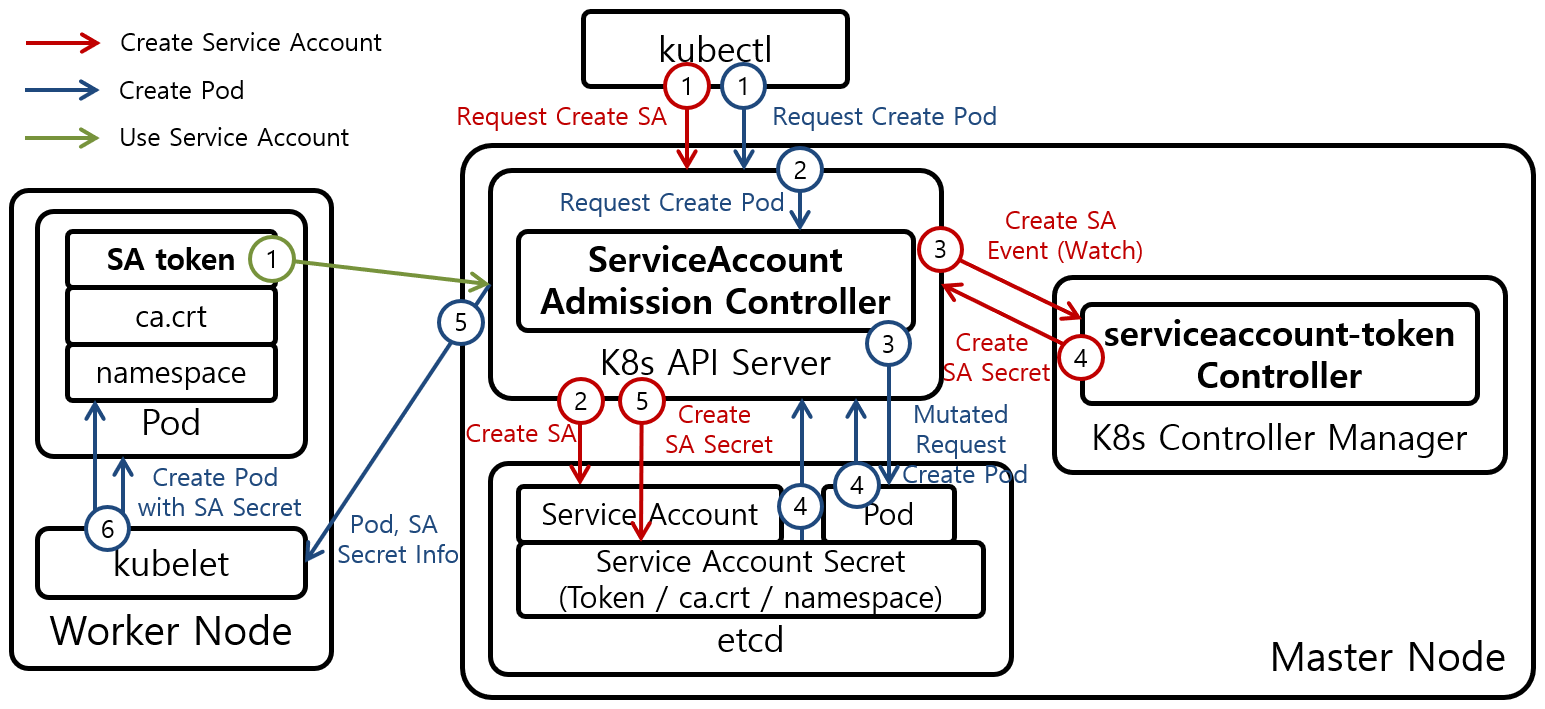
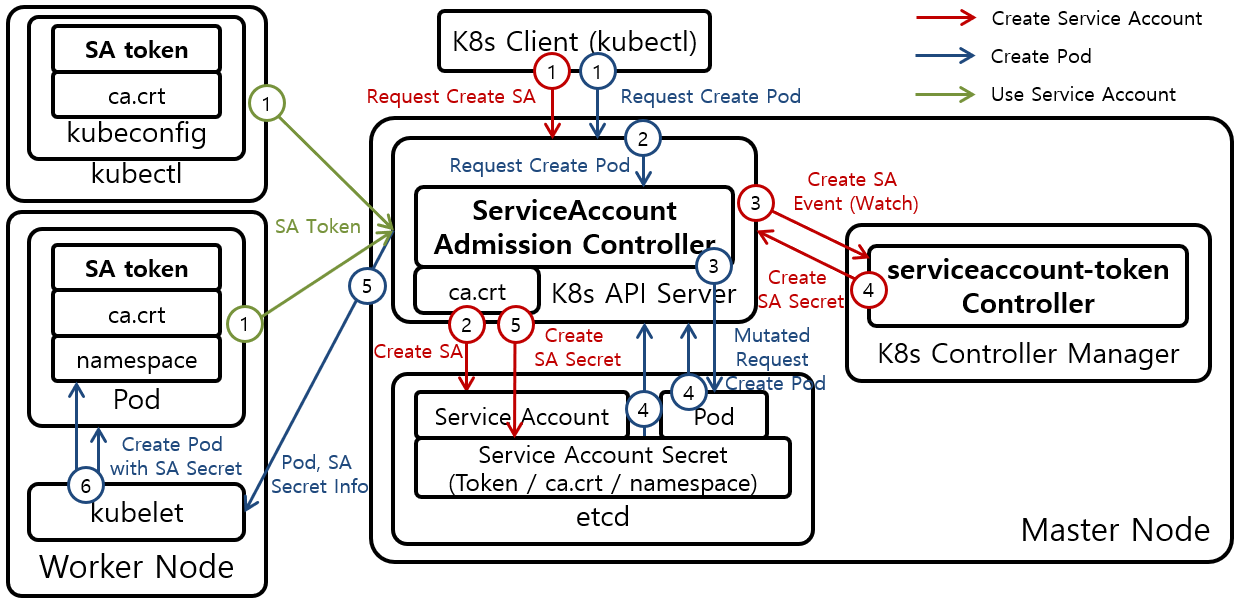
Update

diff --git a/_docs/theory_analysis/Kubernetes_Authentication_Service_Account.md b/_docs/theory_analysis/Kubernetes_Authentication_Service_Account.md
@@ -121,7 +121,8 @@ spec:
 ServiceAccount Admission Controller는 Pod 생성 요청에 포함된 Pod의 Spec을 보고 Spec에 Service Account가 명시되어 있지 않는다면 "default" Service Account를 이용하도록 Pod의 Spec을 변경한다. 또한 Service Account에 포함된 token, ca.crt, namespace를 Pod 내부에서 접근 가능하도록 Volume으로 Mount 하도록 Pod의 Spec을 변경한다. [Text 2]는 ServiceAccount Admission Controller가 변경하는 Pod의 Spec을 나타내고 있다.
 
 {% highlight console %}
-
+# ls /var/run/secrets/kubernetes.io/serviceaccount
+ca.crt  namespace  token
 {% endhighlight %}
 <figure>
 <figcaption class="caption">[Console 3] Kubernetes Pod 내부에서 token, ca.crt, namespace 확인</figcaption>
@@ -131,20 +132,55 @@ Volume이 기본적으로 Mount되는 경로는 "/var/run/secrets/kubernetes.io/
 
 #### 1.4. Use Service Account
 
-API Server : --service-account-key-file=/etc/kubernetes/pki/sa.pub
+Service Account의 Token을 알고 있는 Kubernetes Client (kubectl)은 Service Account의 Token을 Kubernetes API Server에게 전달하여 인증을 진행한다. Service Account의 Token은 **Authorization: Bearer $TOKEN** Header로 전달하면 된다. Service Account의 Token을 전달받은 Kubernetes API Server는 "--service-account-key-file" Option으로 설정된 Key를 이용하여 Token이 유효한지 검증한다.
+
+따라서 Controller Manager의 "--service-account-private-key-file" Option으로 설정된 Key와 Kubernetes API Server의 "--service-account-key-file" Option으로 설정된 Key는 반드시 서로 비대칭 Key Pair 관계를 갖고 있어야한다. 또한 Kubernetes API Server는 Private Root CA 인증서를 이용하기 때문에 Client도 Kubernetes API Server의 Private Root CA 인증서를 갖고 있어야 한다.
+
+##### 1.4.1. in Pod
 
 {% highlight console %}
 $ TOKEN="$(cat /var/run/secrets/kubernetes.io/serviceaccount/token)"
 $ curl --cacert /var/run/secrets/kubernetes.io/serviceaccount/ca.crt \
-    "https://kubernetes.default.svc.cluster.local/oapi/v1/users/~" \
+    "https://kubernetes.default.svc.cluster.local/api/v1/nodes" \
     -H "Authorization: Bearer $TOKEN"
 {% endhighlight %}
 <figure>
 <figcaption class="caption">[Console 4] Kubernetes Service Account 사용</figcaption>
 </figure>
 
+Pod 내부에서는 curl 명령어를 통해서 간단하게 Service Account를 이용할 수 있다. [Console 4]는 Pod 내부에서 curl 명령어를 통해서 Service Account를 이용하는 방법을 나타내고 있다. Pod 내부에서 확인할 수 있는 Service Account의 Token과 Kubernetees API Server의 ca.crt를 이용하면 된다.
+
+##### 1.4.2. in kubeconfig
+
+{% highlight yaml %}
+apiVersion: v1
+kind: Config
+clusters:
+- cluster:
+    certificate-authority-data: <K8s_API_SERVER_ROOT_CA_CRT>
+    server: <K8s_API_SERVER_URL>
+  name: my-cluster 
+contexts:
+- context:
+  name: default-context
+  context:
+    cluster: my-cluster
+    user: my-user
+current-context: default-context
+users:
+- name: my-user
+  user:
+    token: <SERVICE_ACCOUNT_TOKEN>
+{% endhighlight %}
+<figure>
+<figcaption class="caption">[Text 3] kubeconfig with Service Account</figcaption>
+</figure>
+
+kubeconfig 설정을 통해서 kubectl에서도 Service Account를 이용할 수 있다. [Text 3]은 Service Account를 이용하는 kubeconfig를 나타내고 있다. Service Account의 Token과 Kubernetees API Server의 ca.crt가 명시되어 있는것을 확인할 수 있다.
+
 ### 2. 참고
 
 * [https://kubernetes.io/docs/tasks/access-application-cluster/access-cluster/#accessing-the-api-from-a-pod](https://kubernetes.io/docs/tasks/access-application-cluster/access-cluster/#accessing-the-api-from-a-pod)
 * [https://docs.openshift.com/container-platform/3.4/dev_guide/service_accounts.html](https://docs.openshift.com/container-platform/3.4/dev_guide/service_accounts.html)
 * [https://kubernetes.io/docs/reference/command-line-tools-reference/kube-apiserver/](https://kubernetes.io/docs/reference/command-line-tools-reference/kube-apiserver/)
+* [https://stackoverflow.com/questions/55629894/kubernetes-kubeconfig-with-service-account-token](https://stackoverflow.com/questions/55629894/kubernetes-kubeconfig-with-service-account-token)
